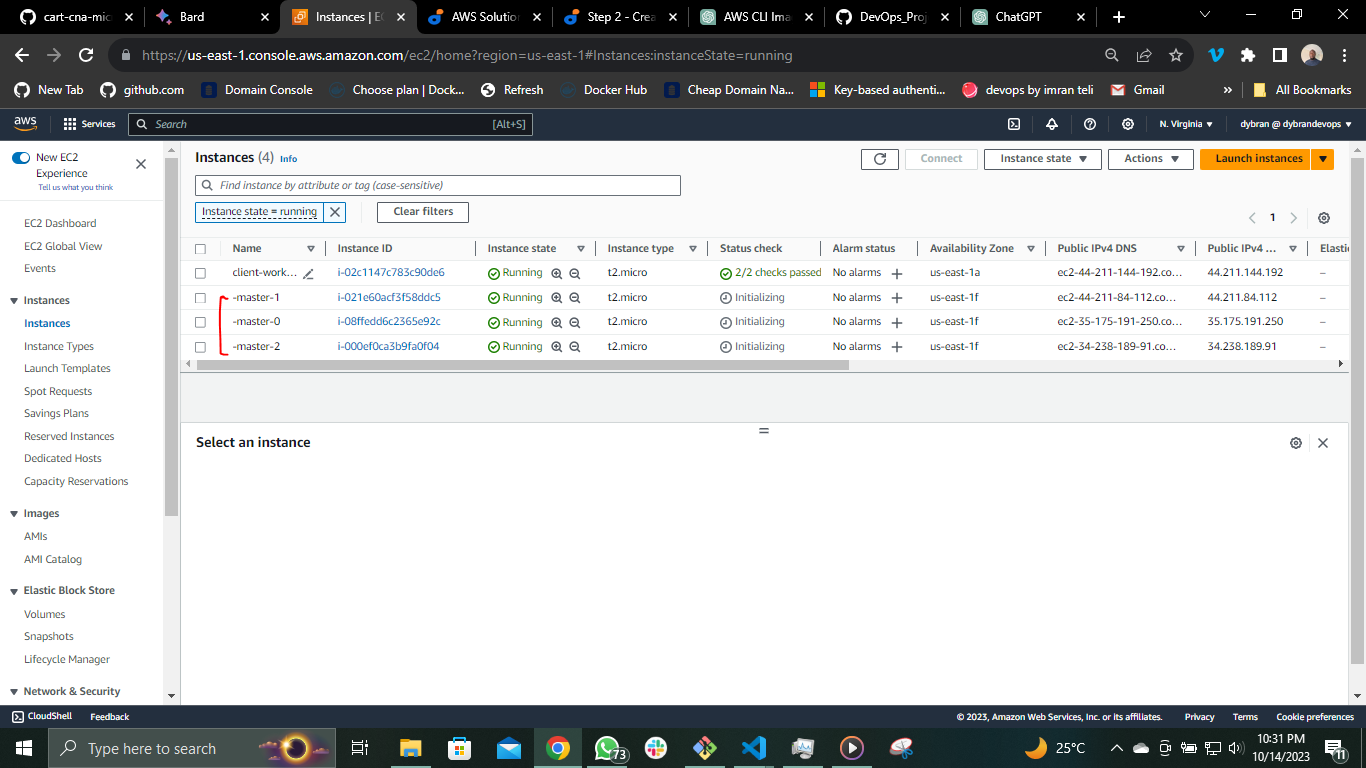
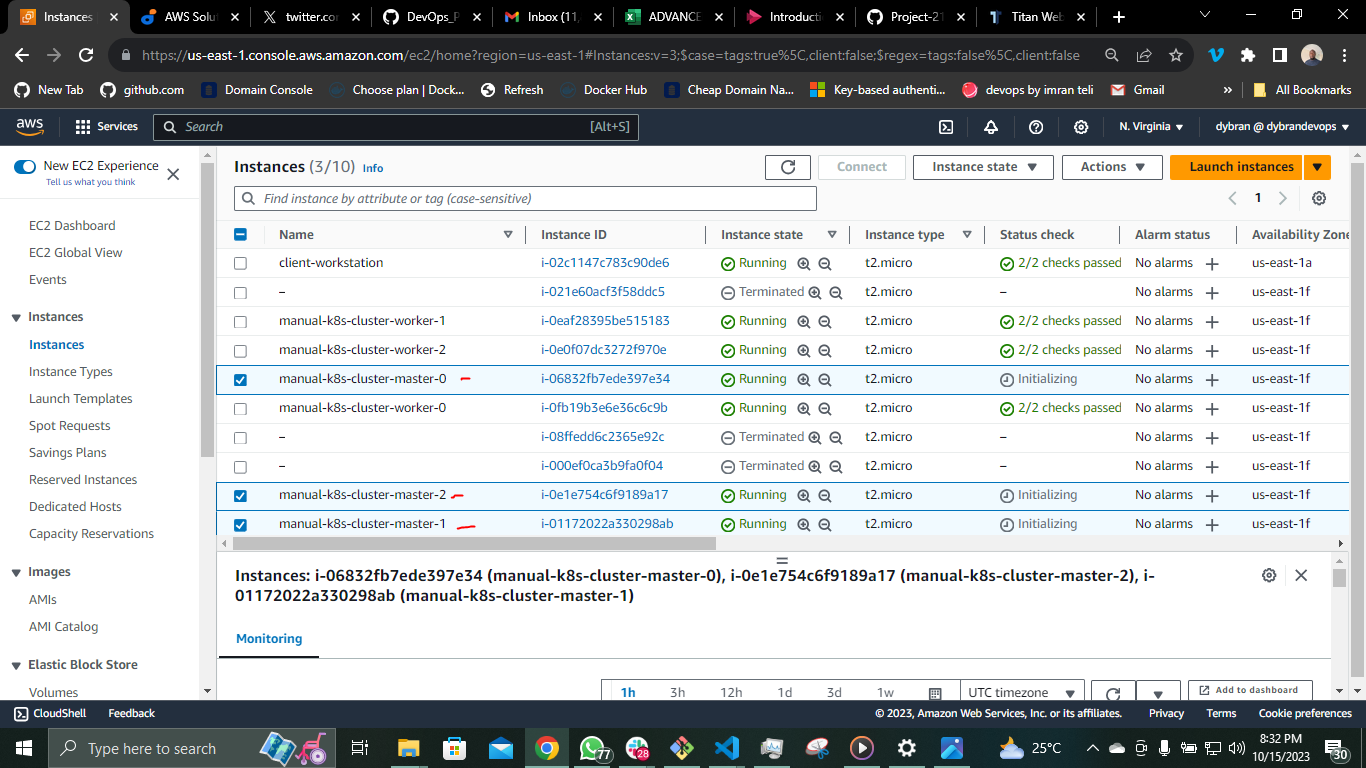
update

diff --git a/orchestrating-containers-across-multiple-virtual-servers-with-k8s.md.md b/orchestrating-containers-across-multiple-virtual-servers-with-k8s.md.md
@@ -394,7 +394,7 @@ for i in 0 1 2; do
     --no-source-dest-check
   aws ec2 create-tags \
     --resources ${instance_id} \
-    --tags "Key=Name,Value=${NAME}-master-${i}"
+    --tags "Key=Name,Value=manual-k8s-cluster-master-${i}"
 done
 ```
 
@@ -841,3 +841,222 @@ instance="manual-k8s-cluster-master-${i}" \
     master-kubernetes.pem master-kubernetes-key.pem ubuntu@${external_ip}:~/;
 done
 ```
+
+![](./images/sen.PNG)
+
+The kube-proxy, kube-controller-manager, kube-scheduler and kubelet client certificates will be used to generate client authentication configuration files later on.
+
+__GENERATE KUBERNETES CONFIGURATION FILES FOR AUTHENTICATION USING 'KUBECTL'__
+
+ In this step, We will create some files known as kubeconfig, which enables Kubernetes clients to locate and authenticate to the Kubernetes API Servers.
+
+You will need a client tool called kubectl to do this. And, by the way, most of your time with Kubernetes will be spent using kubectl commands.
+
+Now it’s time to generate kubeconfig files for the kubelet, controller manager, kube-proxy, and scheduler clients and then the admin user.
+
+First, let us create a few environment variables for reuse by multiple commands.
+
+`$ KUBERNETES_API_SERVER_ADDRESS=$(aws elbv2 describe-load-balancers --load-balancer-arns ${LOAD_BALANCER_ARN} --output text --query 'LoadBalancers[].DNSName')`
+
+__Generate the kubelet kubeconfig file__
+
+For each of the nodes running the kubelet component, it is very important that the client certificate configured for that node is used to generate the kubeconfig. This is because each certificate has the node’s DNS name or IP Address configured at the time the certificate was generated. It will also ensure that the appropriate authorization is applied to that node through the Node Authorizer
+
+Below command must be run in the directory where all the certificates were generated.
+
+```
+for i in 0 1 2; do
+
+instance="manual-k8s-cluster-worker-${i}"
+instance_hostname="ip-172-31-0-2${i}"
+
+ # Set the kubernetes cluster in the kubeconfig file
+  kubectl config set-cluster manual-k8s-cluster \
+    --certificate-authority=ca.pem \
+    --embed-certs=true \
+    --server=https://$KUBERNETES_API_SERVER_ADDRESS:6443 \
+    --kubeconfig=${instance}.kubeconfig
+
+# Set the cluster credentials in the kubeconfig file
+  kubectl config set-credentials system:node:${instance_hostname} \
+    --client-certificate=${instance}.pem \
+    --client-key=${instance}-key.pem \
+    --embed-certs=true \
+    --kubeconfig=${instance}.kubeconfig
+
+# Set the context in the kubeconfig file
+  kubectl config set-context default \
+    --cluster=manual-k8s-cluster \
+    --user=system:node:${instance_hostname} \
+    --kubeconfig=${instance}.kubeconfig
+
+  kubectl config use-context default --kubeconfig=${instance}.kubeconfig
+done
+```
+![](./images/11.PNG)
+![](./images/12.PNG)
+
+List the output
+
+`$ ls -ltr *.kubeconfig`
+
+![](./images/lss.PNG)
+
+Open up the kubeconfig files generated and review the 3 different sections that have been configured:
+
+- Cluster
+- Credentials
+- Kube Context
+
+![](./images/contes.PNG)
+
+Kubeconfig file is used to organize information about clusters, users, namespaces and authentication mechanisms. By default, kubectl looks for a file named config in the __$HOME/.kube__ directory. You can specify other kubeconfig files by setting the KUBECONFIG environment variable or by setting the --kubeconfig flag.
+
+Context part of kubeconfig file defines three main parameters: cluster, namespace and user. You can save several different contexts with any convenient names and switch between them when needed.
+
+`$ kubectl config use-context %context-name%`
+
+Generate the __kube-proxy kubeconfig__
+
+```
+{
+  kubectl config set-cluster manual-k8s-cluster \
+    --certificate-authority=ca.pem \
+    --embed-certs=true \
+    --server=https://${KUBERNETES_API_SERVER_ADDRESS}:6443 \
+    --kubeconfig=kube-proxy.kubeconfig
+
+  kubectl config set-credentials system:kube-proxy \
+    --client-certificate=kube-proxy.pem \
+    --client-key=kube-proxy-key.pem \
+    --embed-certs=true \
+    --kubeconfig=kube-proxy.kubeconfig
+
+  kubectl config set-context default \
+    --cluster=manual-k8s-cluster \
+    --user=system:kube-proxy \
+    --kubeconfig=kube-proxy.kubeconfig
+
+  kubectl config use-context default --kubeconfig=kube-proxy.kubeconfig
+}
+```
+![](./images/1.PNG)
+
+Generate the __Kube-Controller-Manager kubeconfig__
+
+Notice that the --server is set to use 127.0.0.1. This is because, this component runs on the API-Server so there is no point routing through the Load Balancer.
+
+```
+{
+  kubectl config set-cluster manual-k8s-cluster \
+    --certificate-authority=ca.pem \
+    --embed-certs=true \
+    --server=https://127.0.0.1:6443 \
+    --kubeconfig=kube-controller-manager.kubeconfig
+
+  kubectl config set-credentials system:kube-controller-manager \
+    --client-certificate=kube-controller-manager.pem \
+    --client-key=kube-controller-manager-key.pem \
+    --embed-certs=true \
+    --kubeconfig=kube-controller-manager.kubeconfig
+
+  kubectl config set-context default \
+    --cluster=manual-k8s-cluster \
+    --user=system:kube-controller-manager \
+    --kubeconfig=kube-controller-manager.kubeconfig
+
+  kubectl config use-context default --kubeconfig=kube-controller-manager.kubeconfig
+}
+```
+![](./images/2.PNG)
+
+Generating the __Kube-Scheduler Kubeconfig__
+
+```
+{
+  kubectl config set-cluster manual-k8s-cluster \
+    --certificate-authority=ca.pem \
+    --embed-certs=true \
+    --server=https://127.0.0.1:6443 \
+    --kubeconfig=kube-scheduler.kubeconfig
+
+  kubectl config set-credentials system:kube-scheduler \
+    --client-certificate=kube-scheduler.pem \
+    --client-key=kube-scheduler-key.pem \
+    --embed-certs=true \
+    --kubeconfig=kube-scheduler.kubeconfig
+
+  kubectl config set-context default \
+    --cluster=manual-k8s-cluster \
+    --user=system:kube-scheduler \
+    --kubeconfig=kube-scheduler.kubeconfig
+
+  kubectl config use-context default --kubeconfig=kube-scheduler.kubeconfig
+}
+```
+
+![](./images/3.PNG)
+
+Generate the __kubeconfig file for the admin user__
+
+```
+{
+  kubectl config set-cluster manual-k8s-cluster \
+    --certificate-authority=ca.pem \
+    --embed-certs=true \
+    --server=https://${KUBERNETES_API_SERVER_ADDRESS}:6443 \
+    --kubeconfig=admin.kubeconfig
+
+  kubectl config set-credentials admin \
+    --client-certificate=admin.pem \
+    --client-key=admin-key.pem \
+    --embed-certs=true \
+    --kubeconfig=admin.kubeconfig
+
+  kubectl config set-context default \
+    --cluster=manual-k8s-cluster \
+    --user=admin \
+    --kubeconfig=admin.kubeconfig
+
+  kubectl config use-context default --kubeconfig=admin.kubeconfig
+}
+```
+
+![](./images/4.PNG)
+
+Distribute the files to their respective servers, using scp and a for loop like we have done previously. This is a test to validate that you understand which component must go to which node.
+
+
+worker nodes
+
+```
+for i in 0 1 2; do
+  instance="manual-k8s-cluster-worker-${i}"
+  external_ip=$(aws ec2 describe-instances \
+    --filters "Name=tag:Name,Values=${instance}" \
+    --output text --query 'Reservations[].Instances[].PublicIpAddress')
+  scp -i ../ssh/manual-k8s-cluster.id_rsa \
+    kube-proxy.kubeconfig ${instance}-key.pem ${instance}.pem ubuntu@${external_ip}:~/; \
+done
+```
+![](./images/5.PNG)
+
+
+Master nodes
+
+```
+for i in 0 1 2; do
+instance="manual-k8s-cluster-master-${i}" \
+  external_ip=$(aws ec2 describe-instances \
+    --filters "Name=tag:Name,Values=${instance}" \
+    --output text --query 'Reservations[].Instances[].PublicIpAddress')
+  scp -i ../ssh/manual-k8s-cluster.id_rsa \
+    ca.pem ca-key.pem service-account-key.pem service-account.pem \
+    kube-controller-manager.kubeconfig kube-scheduler.kubeconfig admin.kubeconfig ubuntu@${external_ip}:~/;
+done
+```
+
+![](./images/7.PNG)
+
+__PREPARE THE ETCD DATABASE FOR ENCRYPTION AT REST__
+
